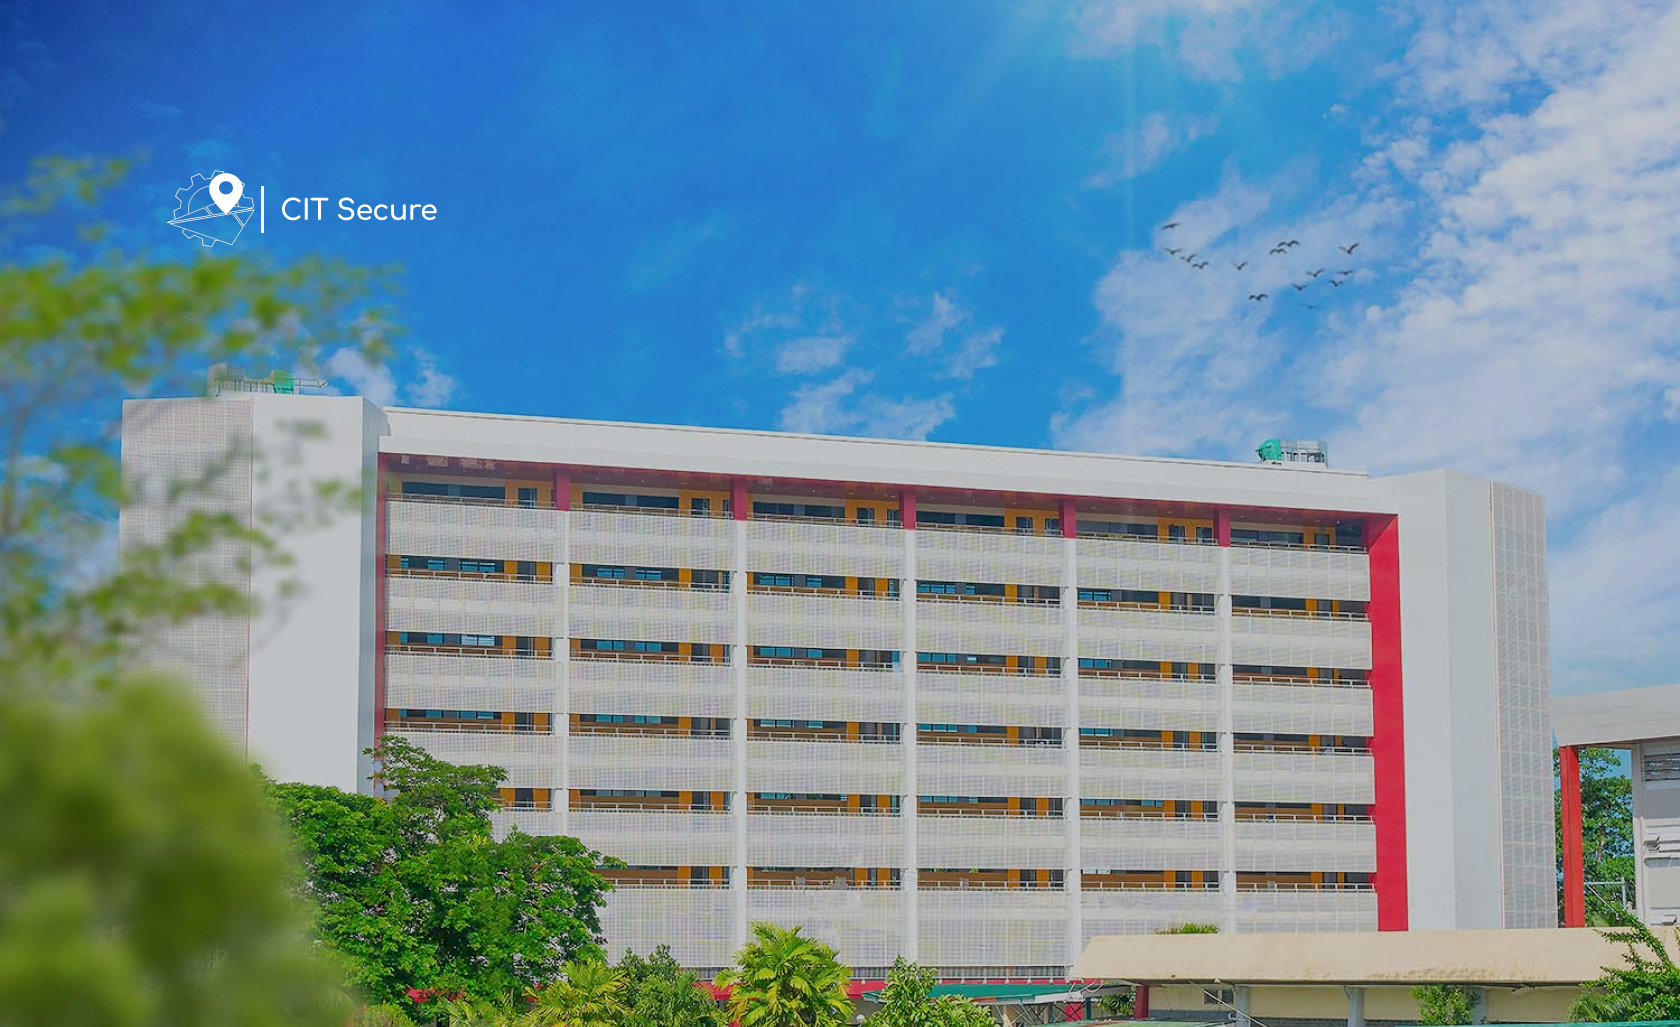
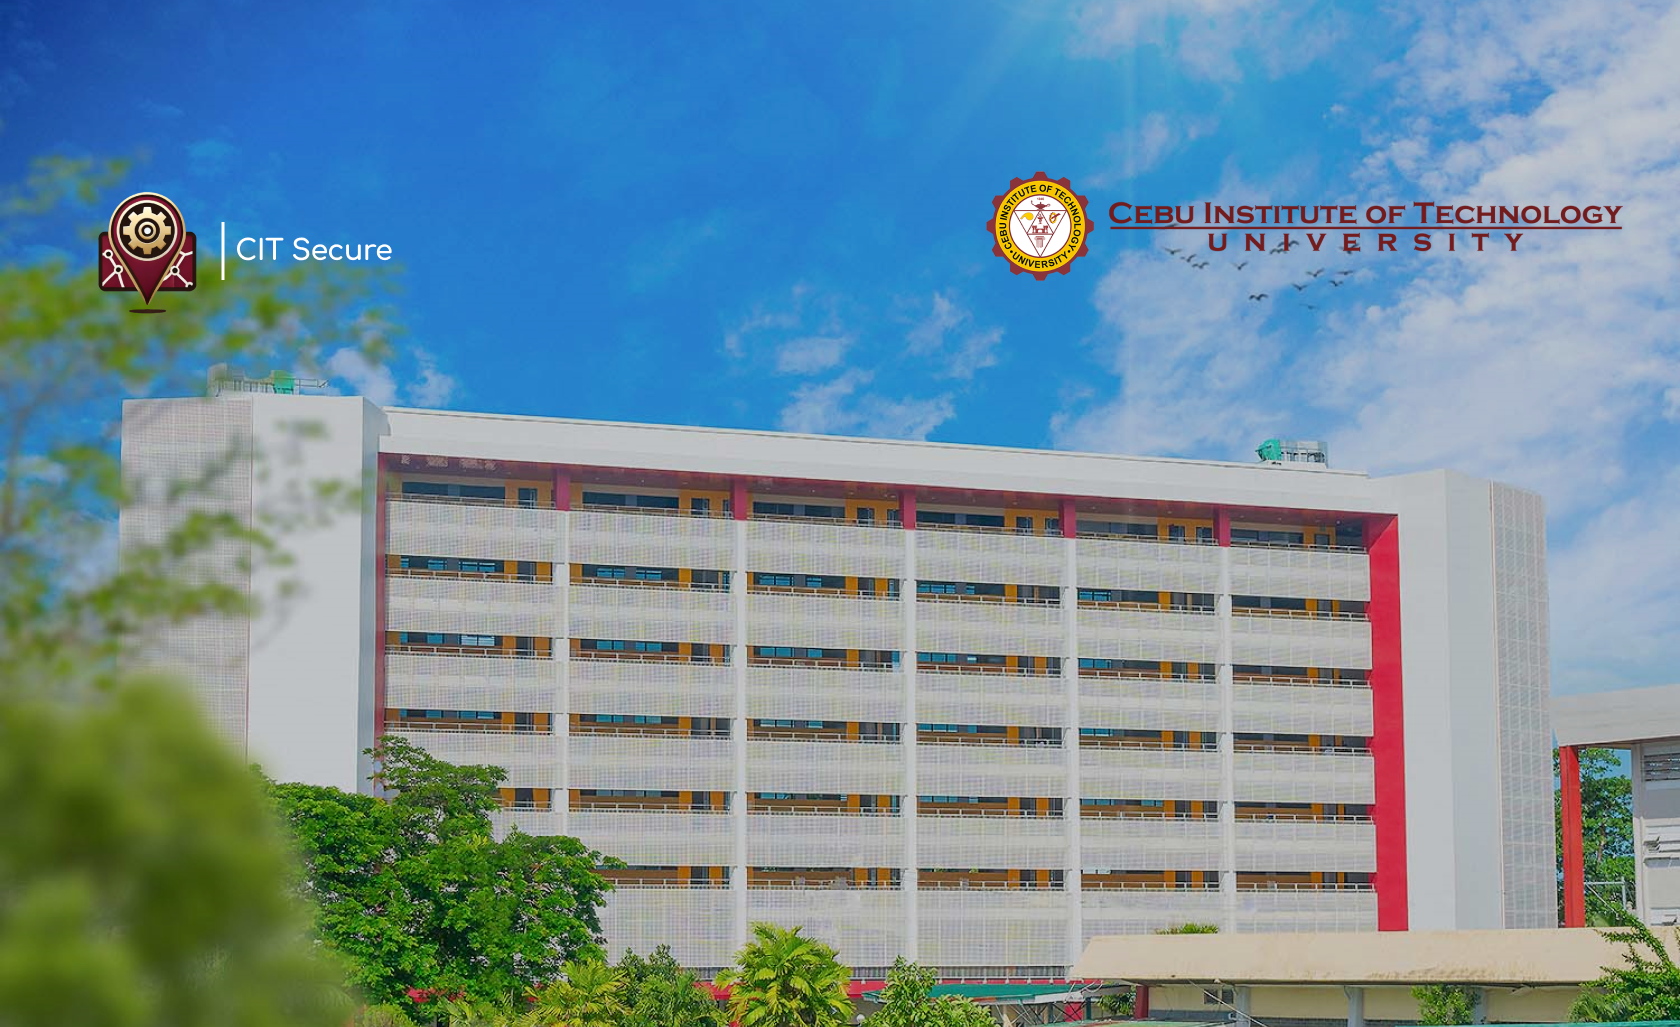
Add some adjustment

Changed region(s): [[0.5881, 0.1558, 0.9595, 0.2804], [0.031, 0.1558, 0.2786, 0.3116]]

diff --git a/src/components/About.js b/src/components/About.js
@@ -15,7 +15,6 @@ class AboutPage extends Component {
         { name: 'Cabante, Jaimes Edward', title: 'Developer' },
         { name: 'Cantiveros, Christian Benedict', title: 'Developer' },
         { name: 'Huyo, Hans Werner', title: 'Developer' },
-       
       ],
     };
   }
@@ -70,11 +69,28 @@ class AboutPage extends Component {
       transition: '0.3s',
     };
 
+    // Glassmorphism style
+    const glassStyle = {
+      width: '1100px',
+      height: '400px',
+      display: 'flex',
+      flexDirection: 'column',
+      alignItems: 'center',
+      justifyContent: 'center',
+      padding: '20px',
+      background: 'rgba(255, 255, 255, 0.2)',  // semi-transparent background
+      borderRadius: '16px',
+      backdropFilter: 'blur(15px)',  // blur effect
+      boxShadow: '0 4px 30px rgba(0, 0, 0, 0.1)',  // light shadow for depth
+      border: '2px solid maroon',  // Maroon border
+    };
+    
+
     return (
       <>
         <header className="d-flex flex-wrap align-items-center justify-content-between py-3 mb-4 border-bottom" style={{ backgroundColor: 'maroon', padding: '10px', fontSize: '20px' }}>
           <div style={{ color: 'white', display: 'flex', alignItems: 'center' }}>
-            <img src="/images/CITSecure LOGO.png" alt="CITSecure Logo" width="67" height="60" />
+            <img src="/images/CIT LOGO.png" alt="CITSecure Logo" width="67" height="60" />
             <span style={{ width: '2.5px', height: '40px', backgroundColor: 'white', margin: '0 5px' }}></span>
             <span>CITSecure</span>
           </div>
@@ -129,9 +145,9 @@ class AboutPage extends Component {
           </Row>
         </div>
         <section style={{ padding: '20px', display: 'flex', alignItems: 'center', justifyContent: 'center' }}>
-          <div style={{ backgroundColor: '#FFEFBA', width: '1100px', height: '400px', display: 'flex', flexDirection: 'column', alignItems: 'center' }}>
+          <div style={glassStyle}>
             <div style={{ display: 'flex', alignItems: 'center', marginTop: '100px' }}>
-              <img src="/images/CITSecure LOGO.png" alt="CITSecure Logo" width="67" height="60" />
+              <img src="/images/CIT LOGO.png" alt="CITSecure Logo" width="67" height="60" />
               <span style={{ width: '1px', height: '35px', backgroundColor: 'black', margin: '0 5px' }}></span>
               <span>CITU- Secure</span>
             </div>

diff --git a/src/components/Visitor Class/VisitorNavigationPage.js b/src/components/Visitor Class/VisitorNavigationPage.js
@@ -63,7 +63,7 @@ class VisitorNavigationPage extends React.Component {
                     }}
                 >
                     <div style={{ color: 'white', display: 'flex', alignItems: 'center' }}>
-                        <img src="/images/CITSecure LOGO.png" alt="CITSecure Logo" width="67" height="60" />
+                        <img src="/images/CIT LOGO.png" alt="CITSecure Logo" width="67" height="60" />
                         <span style={{ width: '2.5px', height: '40px', backgroundColor: 'white', margin: '0 5px' }}></span>
                         <span>CITSecure</span>
                     </div>

diff --git a/src/components/MenuPage.js b/src/components/MenuPage.js
@@ -74,7 +74,7 @@ return (
                 }}
             >
                 <div style={{ color: 'white', display: 'flex', alignItems: 'center' }}>
-                    <img src="/images/CITSecure LOGO.png" alt="CITSecure Logo" width="67" height="60" />
+                    <img src="/images/CIT LOGO.png" alt="CIT LGOO" width="67" height="60" />
                     <span style={{ width: '2.5px', height: '40px', backgroundColor: 'white', margin: '0 5px' }}></span>
                     <span>CITSecure</span>
                 </div>

diff --git a/src/components/Home.js b/src/components/Home.js
@@ -8,7 +8,7 @@ library.add(faSignInAlt, faSignOutAlt);
 
 class Home extends Component {
   containerStyle = {
-    backgroundImage: `url('/images/Menu5.png')`,
+    backgroundImage: `url('/images/TRY NEW.png')`,
     backgroundRepeat: 'no-repeat',
     backgroundSize: 'cover',
     backgroundPosition: 'center',
